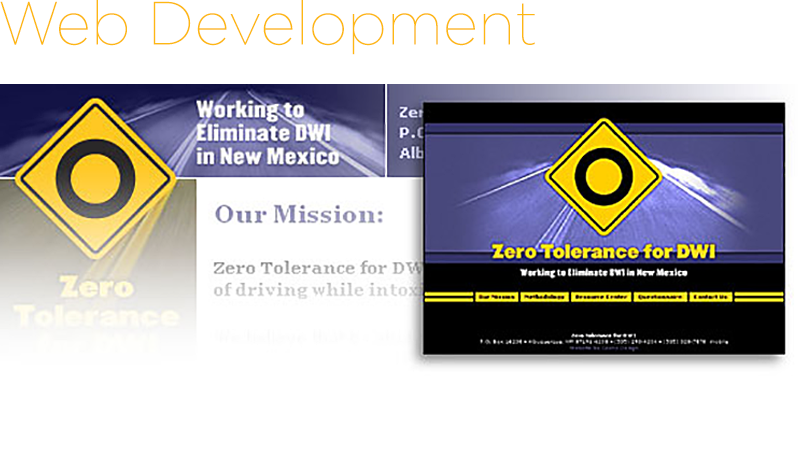
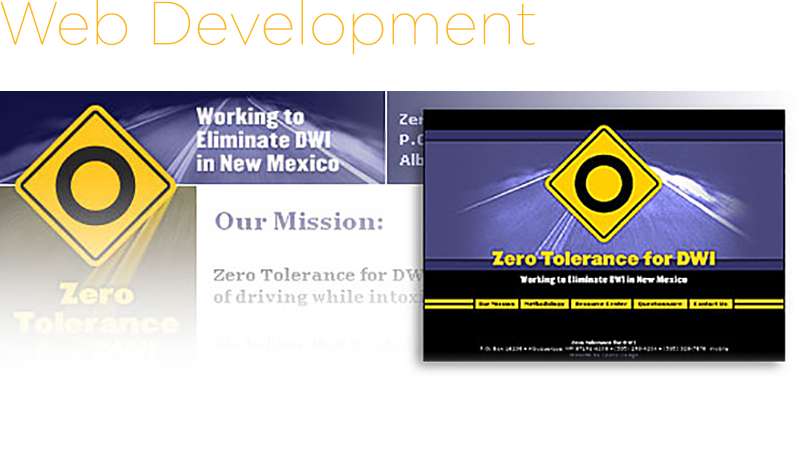
major weirdness

Changed region(s): [[0.0, 0.1826, 1.0, 0.6696], [0.5312, 0.7, 1.0, 0.8217], [0.0625, 0.5783, 0.1875, 0.6391]]

diff --git a/public_html/index.html b/public_html/index.html
@@ -42,7 +42,7 @@
 
     <!--MAIN CONTENT BODY-->
        <!--CONTENT WELCOME-->
-            <div class="tabs__content" data-tab="1">
+            <div id="homeTab" class="tabs__content" data-tab="1">
                 <div class="d-flex flex-row">
                     <div class="col-5 left-52">
                         <h5 class="green"><strong>Welcome</strong></h5>
@@ -58,32 +58,32 @@
             </div>
 
         <!--CONTENT PORTFOLIO-->
-            <div class="tabs__content" data-tab="2">
-                <div class="d-flex flex-row col-5">
-                    <div class="left-52">
+
+            <div id="portfolioTab" class="tabs__content" data-tab="2">
+                <div class="d-flex flex-row">
+                    <div class="col-5 left-52">
                         <h5 class="green"><strong>Portfolio</strong></h5>
                         <p>For your consideration, a curated collection of work.</p>
                     </div>
                 </div>
-                <div class="d-flex col-7">
+                <div class="col-7 img-fluid">
                     <div>
-                        <img src="./images/portfolio/portWebDev_1.png" class="slide-1">
-                        <img src="./images/portfolio/portWebDev_2.png" class="slide-2">
-                        <img src="./images/portfolio/portWebDev_3.png" class="slide-3">
-                        <img src="./images/portfolio/portWebDev_4.png" class="slide-4">
-                        <img src="./images/portfolio/portIdentity_1.png" class="slide-5">
-                        <img src="./images/portfolio/portIdentity_2.png" class="slide-6">
-                        <img src="./images/portfolio/portIdentity_3.png" class="slide-7">
-                        <img src="./images/portfolio/portPhoto_1.png" class="slide-8">
-                        <img src="./images/portfolio/portPhoto_2.png" class="slide-9">
-            <!-- <img src="images/placeholderPortfolio.png" class="img-fluid" alt="portfolio" />-->
+                        <img src="./images/portfolio/portWebDev_1.png" alt="Web Development" class="slide-1">
+                        <img src="./images/portfolio/portWebDev_2.png" alt="Web Development" class="slide-2">
+                        <img src="./images/portfolio/portWebDev_3.png" alt="Web Development" class="slide-3">
+                        <img src="./images/portfolio/portWebDev_4.png" alt="Web Development" class="slide-4">
+                        <img src="./images/portfolio/portIdentity_1.png" alt="Web Development" class="slide-5">
+                        <img src="./images/portfolio/portIdentity_2.png" alt="Web Development" class="slide-6">
+                        <img src="./images/portfolio/portIdentity_3.png" alt="Web Development" class="slide-7">
+                        <img src="./images/portfolio/portPhoto_1.png" alt="Web Development" class="slide-8">
+                        <img src="./images/portfolio/portPhoto_2.png" alt="Web Development" class="slide-9">
                     </div>
 
                 </div>
             </div>
 
         <!--CONTENT CONTACT FORM-->
-            <div class="tabs__content" data-tab="3">
+            <div id="formTab" class="tabs__content" data-tab="3">
 
                     <div class="col-5 left-52">
                         <h5 class="green"><strong>Contact</strong></h5>

diff --git a/public_html/style.css b/public_html/style.css
@@ -87,45 +87,42 @@ p, ul, ol, li {
 
 .slide-1, .slide-2, .slide-3, .slide-4, .slide-5, .slide-6, .slide-7, .slide-8, .slide-9 {
     display: block;
-    position: absolute;
-    width: 800px;
-    height: 460px;
 }
 
 .slide-1 {
-    animation: fade1 10s infinite;
+    animation: fade1 50s infinite;
 }
 
 .slide-2 {
-    animation: fade2 10s infinite;
+    animation: fade2 50s infinite;
 }
 
 .slide-3 {
-    animation: fade3 10s infinite;
+    animation: fade3 50s infinite;
 }
 
 .slide-4 {
-    animation: fade4 10s infinite;
+    animation: fade4 50s infinite;
 }
 
 .slide-5 {
-    animation: fade5 10s infinite;
+    animation: fade5 50s infinite;
 }
 
 .slide-6 {
-    animation: fade6 10s infinite;
+    animation: fade6 50s infinite;
 }
 
 .slide-7 {
-    animation: fade7 10s infinite;
+    animation: fade7 50s infinite;
 }
 
 .slide-8 {
-    animation: fade8 10s infinite;
+    animation: fade8 50s infinite;
 }
 
 .slide-9 {
-    animation: fade9 10s infinite;
+    animation: fade9 50s infinite;
 }
 
 

diff --git a/public_html/script.js b/public_html/script.js
@@ -8,8 +8,17 @@
 
                 const tabNumber = button.dataset.forTab;
 
-                const tabToActivate = document.querySelector(`.tabs__content[data-tab=“${tabNumber}”]`)
+                // const tabToActivate = document.querySelector(`.tabs__content[data-tab=“${tabNumber}”]`)
 
+                let tabToActivate;
+//const tabToActivate = document.querySelector(`.tabs__content[data-tab=${tabNumber}]`)
+                if(tabNumber === "1") {
+                    tabToActivate = document.getElementById("homeTab");
+                } else if (tabNumber === "2") {
+                    tabToActivate = document.getElementById("portfolioTab");
+                } else if (tabNumber === "3") {
+                    tabToActivate = document.getElementById("formTab");
+                }
 
                 // const tabToActivate = tabsContainer.querySelector(`.tabs__content[data-tab="${tabNumber}"]`);
 
